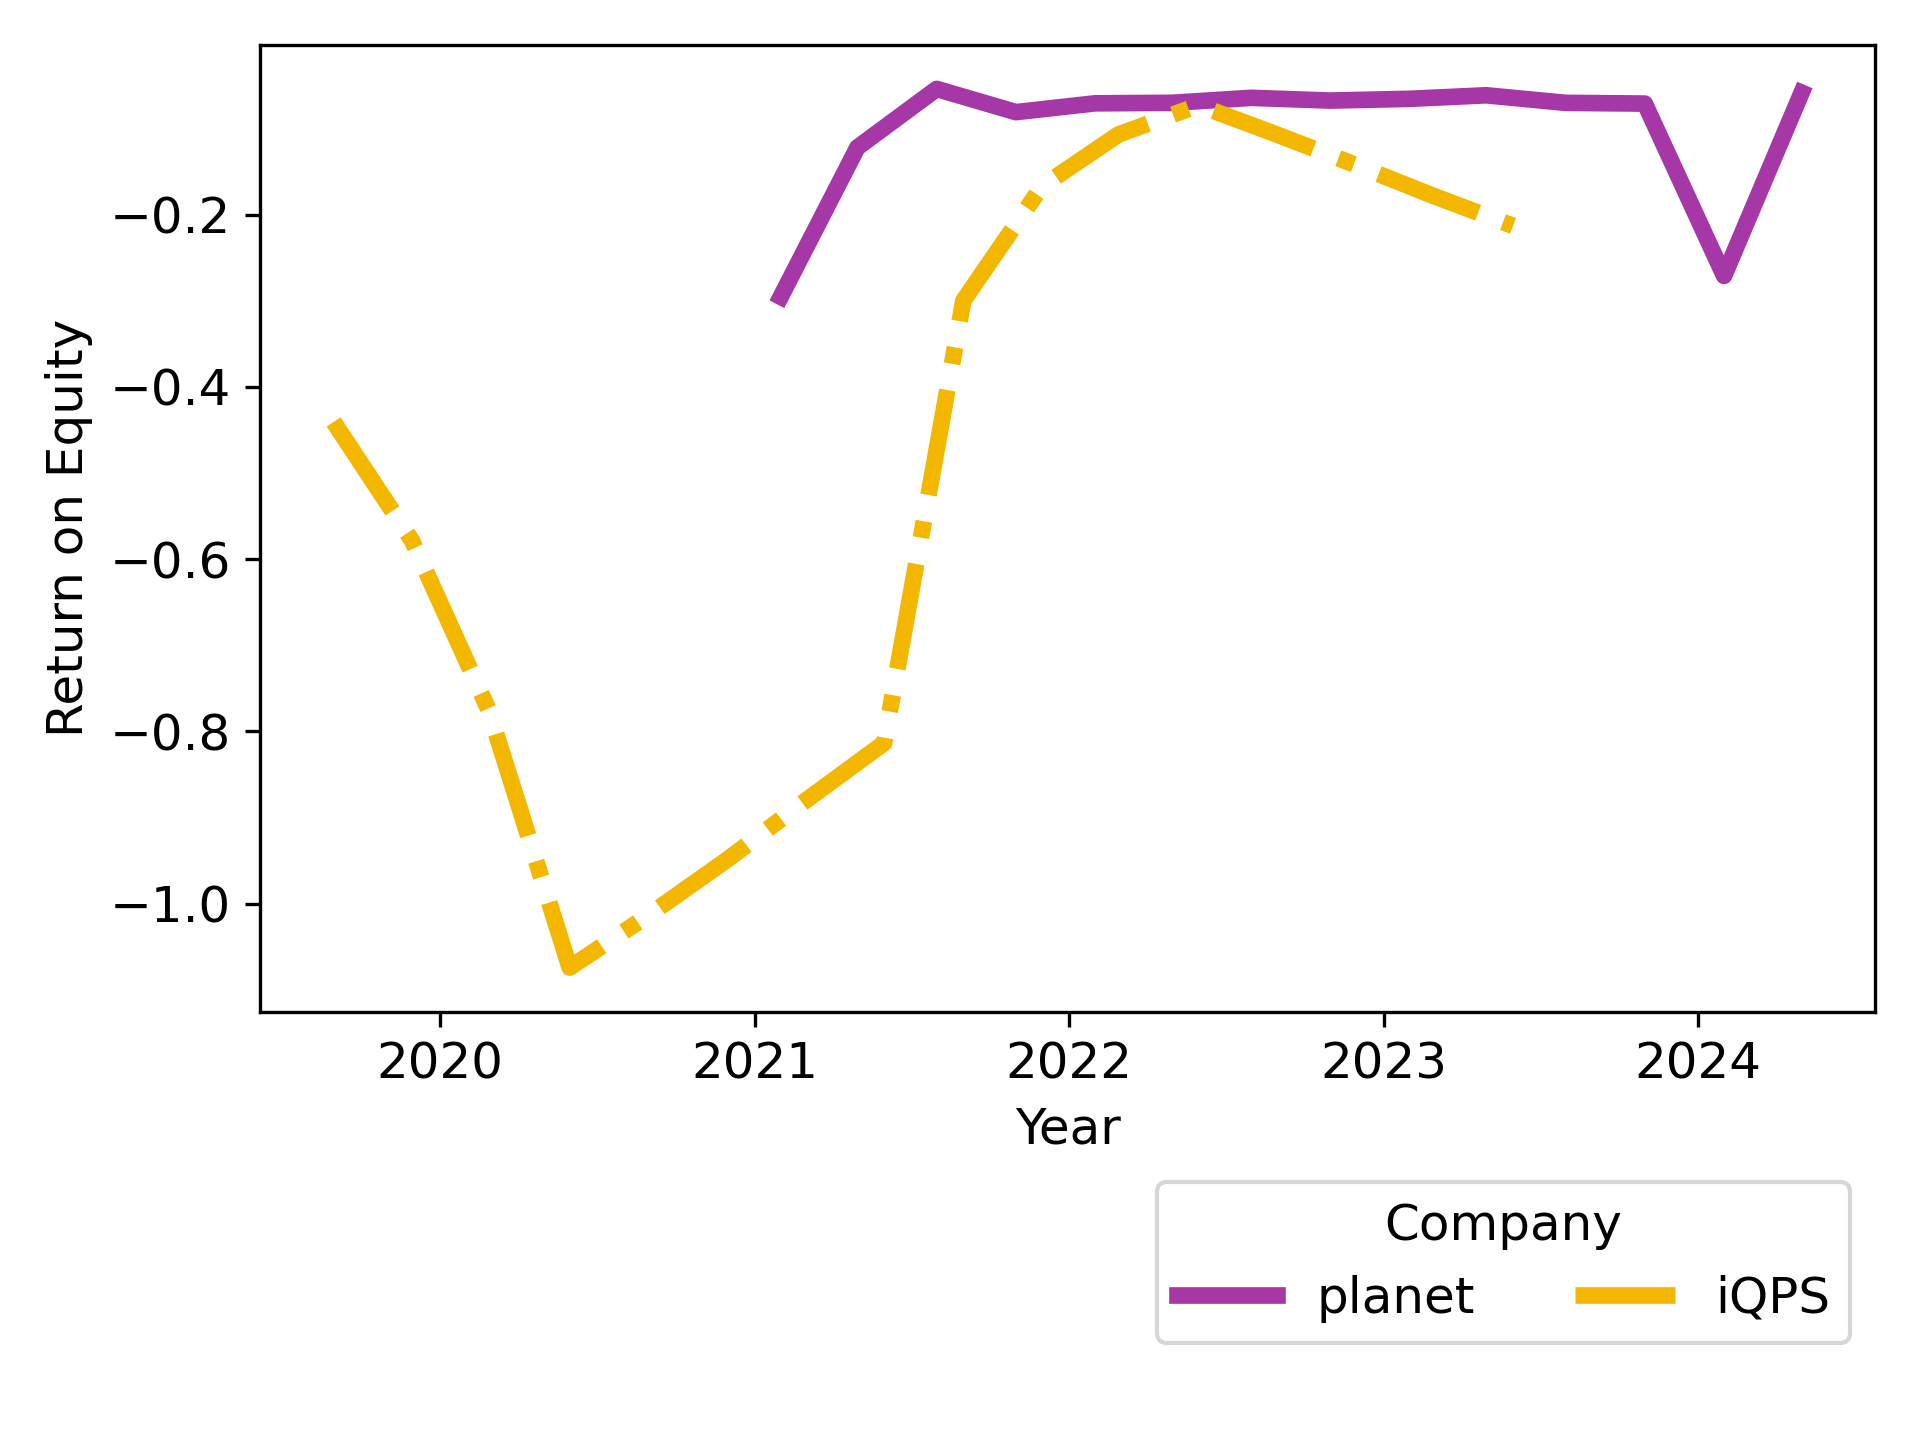
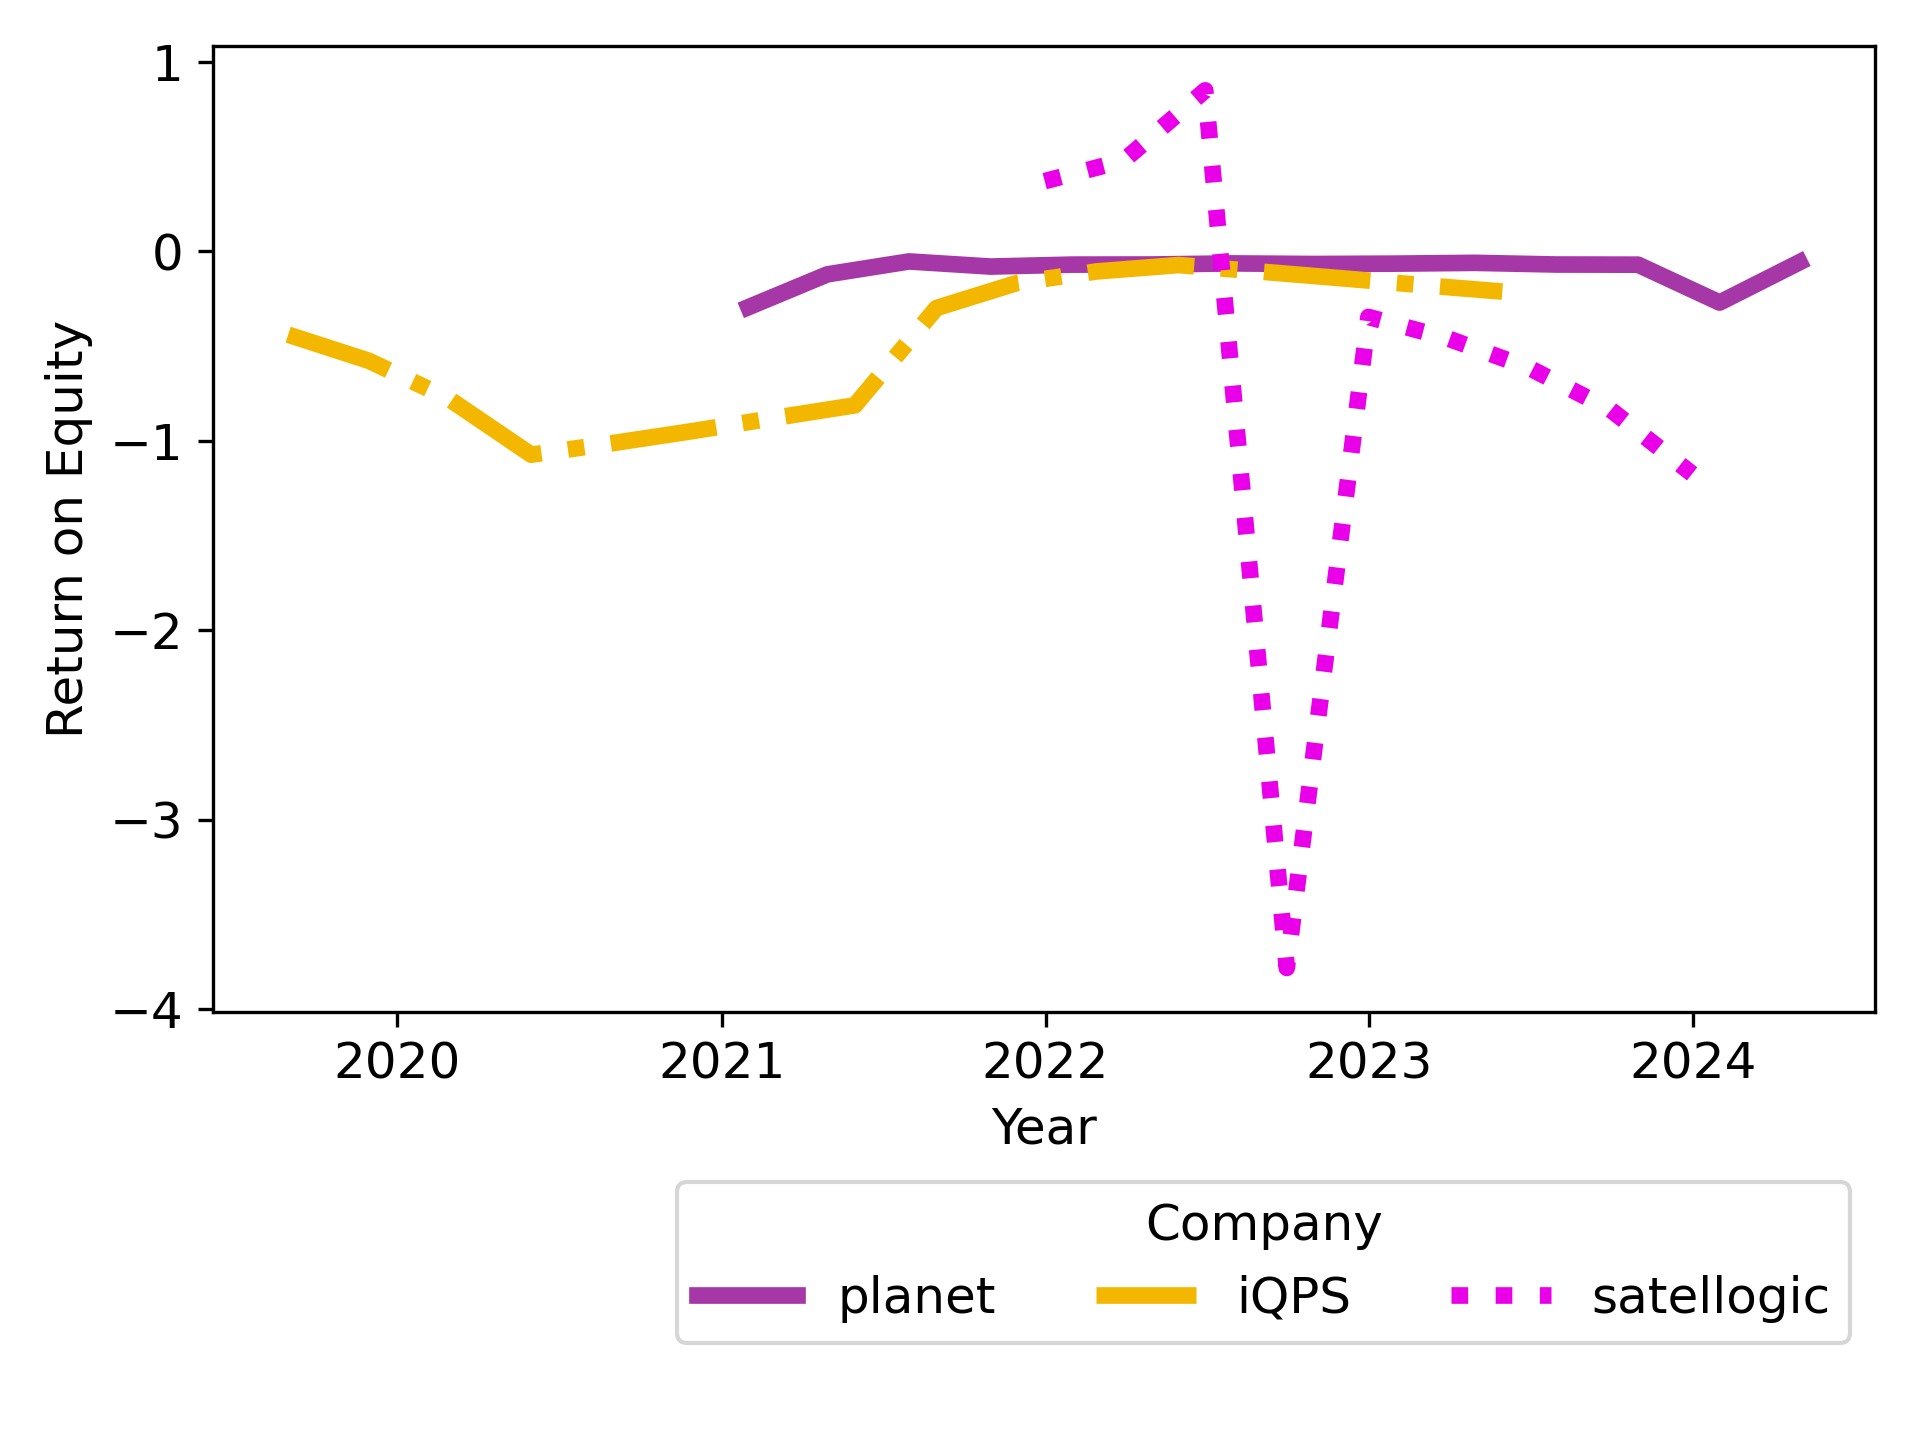
[ADD, RM, CI] rm econometrics gitmodule, add updates to data_loading.py and images based on new satellogic data, add CI and conda environment config

diff --git a/src/data_loading.py b/src/data_loading.py
@@ -67,9 +67,9 @@ for i, key in enumerate(keys):
 
     filtered_data = data[data['Quarter'].between(start_date, end_date)]
     
-    totalAssets = filtered_data["Total Assets"].values
-    totalLiabilities = filtered_data["Total Liabilities"].values
-    totalEquity = filtered_data["Total Equity"].values
+    totalAssets = filtered_data["Total Assets"].values.astype(int)
+    totalLiabilities = filtered_data["Total Liabilities"].values.astype(int)
+    totalEquity = filtered_data["Total Equity"].values.astype(int)
 
     # Transformed data
     transformed_data = {"totalAssets": totalAssets,
@@ -89,10 +89,10 @@ for i, key in enumerate(keys):
                         "growthEquity": (np.diff(totalEquity)/totalEquity[1:])*100,
                         }
 
-    if key == "synspective" or key == "satellogic":
+    if key == "synspective":
         print("Not enough revenue data")
     else:
-        revenue = filtered_data["Revenue"].values
+        revenue = filtered_data["Revenue"].values.astype(int)
         transformed_data["Revenue"] = revenue
         transformed_data["lnRevenue"] = np.log(revenue)
         transformed_data["diffRevenue"] = np.diff(revenue)
@@ -156,7 +156,7 @@ for i, key in enumerate(keys):
     ax3.plot(filtered_data["Quarter"].values[1:], transformed_data["growthEquity"], color=companyColor, linestyle=keys[key]["style"], label=key, linewidth=4)
     ax4.plot(filtered_data["Quarter"].values[:], transformed_data["totalAssets"]/transformed_data["totalEquity"], color=companyColor, linestyle=keys[key]["style"], label=key, linewidth=4)
     
-    if key == "synspective" or key == "satellogic":
+    if key == "synspective":
         continue
     else:
         financial_leverage = transformed_data["totalAssets"]/transformed_data["totalEquity"]
